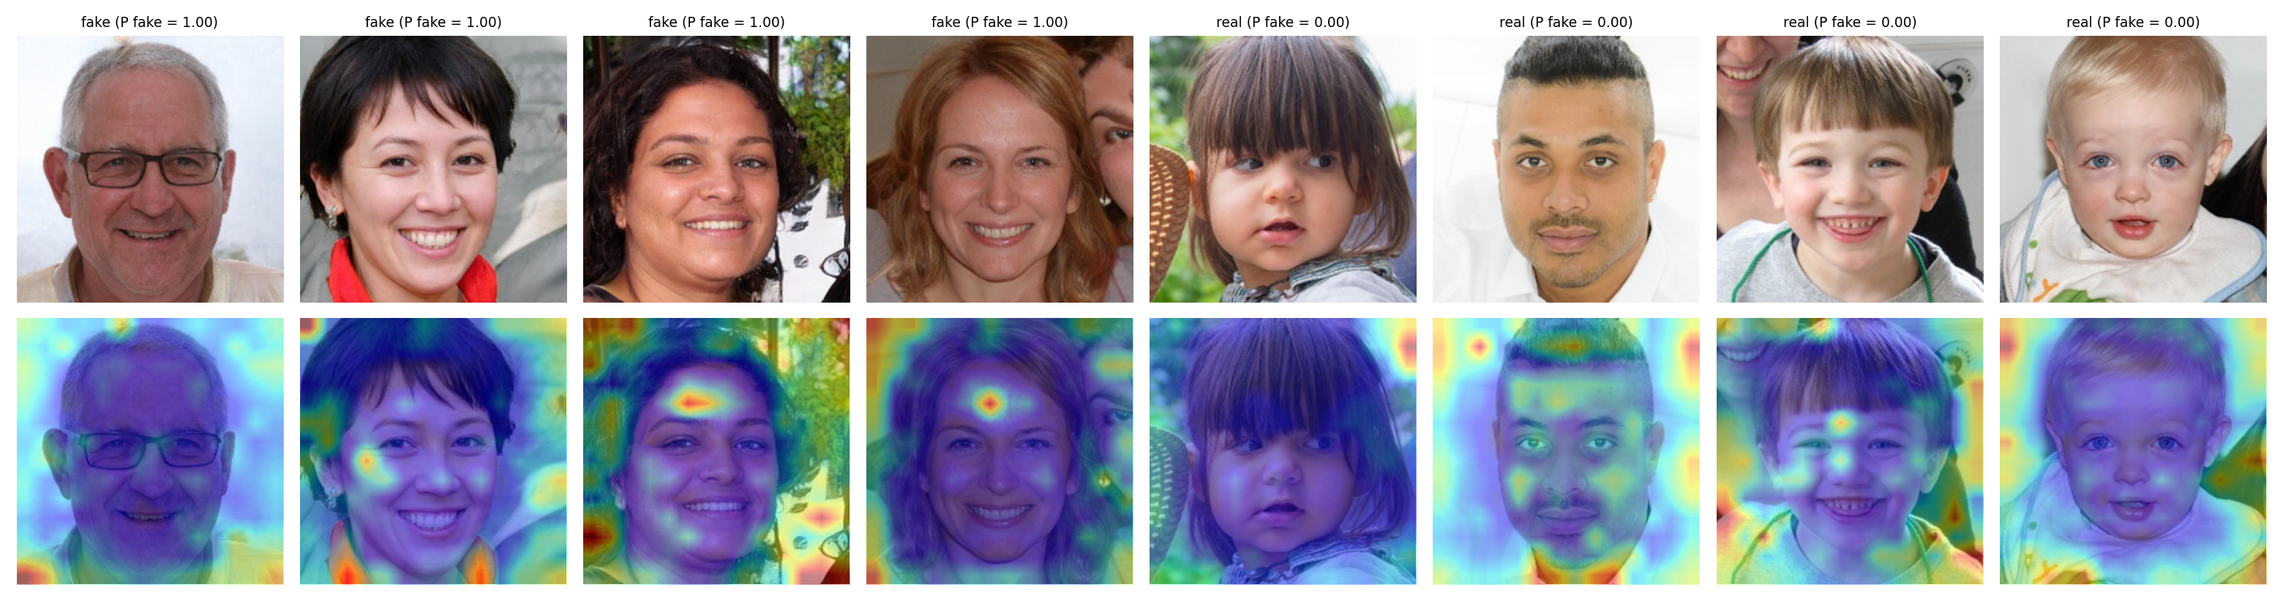
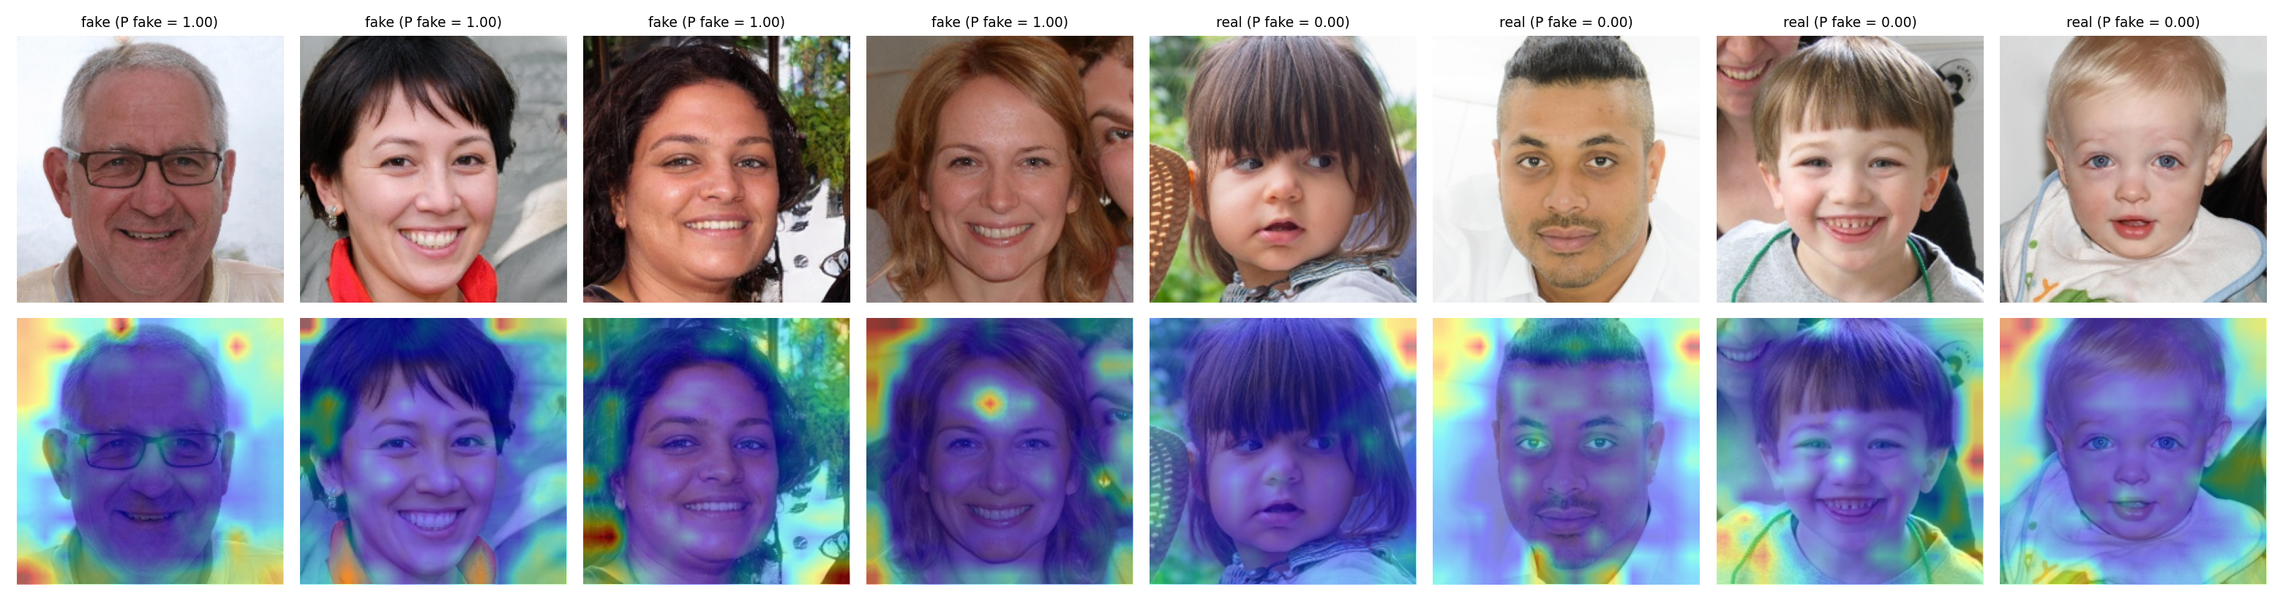
docs: rapport mis a jour avec les resultats reels (ViT scale, calibration, stats)

diff --git a/docs/rapport/rapport_technique.tex b/docs/rapport/rapport_technique.tex
@@ -321,10 +321,10 @@ le jeu de test.
 
 \section{Résultats et analyse}
 
-Tous les chiffres proviennent d'une exécution unique de chaque modèle (graine 42), sur les sous-ensembles décrits
-en section~5.4. Les latences sont mesurées sur CPU, sur la machine du notebook Kaggle, avec une image à la fois.
+Sauf mention contraire, les chiffres proviennent de l'entraînement de graine 42 de chaque modèle, sur les sous-ensembles
+décrits en section~5.4 ; EfficientNet et le ViT ont en plus été entraînés avec les graines 1 et 2 (section~\ref{sec:stats}). Les latences sont mesurées sur CPU, sur la machine du notebook Kaggle, avec une image à la fois.
 
-\subsection{Comparaison des trois modèles}
+\subsection{Comparaison des modèles}
 
 \begin{table}[H]
 \centering\small
@@ -332,12 +332,13 @@ en section~5.4. Les latences sont mesurées sur CPU, sur la machine du notebook 
 \toprule
 \textbf{Modèle} & \textbf{Params (M)} & \textbf{Durée (s)} & \textbf{Acc. val} & \textbf{F1 val} & \textbf{AUC val} \\
 \midrule
-Baseline CNN & 0,39 & 927 & 0,840 & 0,842 & 0,919 \\
-EfficientNet-V2-S & 22,15 & 409 & 0,968 & 0,968 & 0,996 \\
-ViT-B/16 & 85,80 & 594 & \textbf{0,998} & \textbf{0,998} & \textbf{1,000} \\
+Baseline CNN & 0,39 & 675 & 0,840 & 0,842 & 0,919 \\
+EfficientNet-V2-S & 22,15 & 391 & 0,968 & 0,968 & 0,996 \\
+ViT-B/16 & 85,80 & 563 & \textbf{0,998} & \textbf{0,998} & \textbf{1,000} \\
+ViT-B/16 (\texttt{scale}) & 85,80 & 567 & \textbf{0,998} & \textbf{0,998} & \textbf{1,000} \\
 \bottomrule
 \end{tabular}
-\caption{Entraînement et validation (4\,000 images). Durée : temps d'entraînement complet (10 époques pour la baseline, 3 pour les deux autres).}
+\caption{Entraînement et validation (4\,000 images). Durée : temps d'entraînement complet (10 époques pour la baseline, 3 pour les autres), sur GPU T4.}
 \end{table}
 
 \begin{table}[H]
@@ -347,16 +348,17 @@ ViT-B/16 & 85,80 & 594 & \textbf{0,998} & \textbf{0,998} & \textbf{1,000} \\
 \textbf{Modèle} & \textbf{Acc. test} & \textbf{F1 test} & \textbf{AUC test} & \textbf{Erreurs / 4\,000} \\
 \midrule
 Baseline CNN & 0,836 & 0,837 & 0,921 & 656 \\
-EfficientNet-V2-S & 0,973 & 0,973 & 0,996 & 108 \\
-ViT-B/16 & \textbf{0,996} & \textbf{0,996} & \textbf{1,000} & \textbf{15} \\
+EfficientNet-V2-S & 0,971 & 0,971 & 0,996 & 115 \\
+ViT-B/16 & 0,997 & 0,997 & 1,000 & 11 \\
+ViT-B/16 (\texttt{scale}) & \textbf{0,999} & \textbf{0,999} & \textbf{1,000} & \textbf{6} \\
 \bottomrule
 \end{tabular}
-\caption{Évaluation sur le jeu de test (4\,000 images, classe positive : « fake »). Le ViT commet environ 7 fois moins d'erreurs qu'EfficientNet et 44 fois moins que la baseline.}
+\caption{Évaluation sur le jeu de test (4\,000 images, classe positive : « fake »). Le ViT commet environ 10 fois moins d'erreurs qu'EfficientNet et 60 fois moins que la baseline.}
 \end{table}
 
 L'incertitude de ces chiffres et la significativité des écarts sont mesurées en section~\ref{sec:stats}.
 
-\figureou[0.5]{confusion_matrix.png}{Matrice de confusion du ViT-B/16 sur le jeu de test : 7 vrais visages classés « fake » et 8 faux classés « real ».}{fig:cm}
+\figureou[0.5]{confusion_matrix.png}{Matrice de confusion du ViT-B/16 sur le jeu de test : 8 vrais visages classés « fake » et 3 faux classés « real ».}{fig:cm}
 \figureou[0.5]{roc_curve.png}{Courbe ROC du ViT-B/16 sur le jeu de test (AUC $=1{,}000$ à l'arrondi).}{fig:roc}
 
 \subsection{Courbes d'apprentissage}
@@ -383,8 +385,9 @@ que les images où un seul des deux modèles se trompe.
 \textbf{Modèle} & \textbf{Exactitude} & \textbf{F1 (classe fake)} & \textbf{AUC} \\
 \midrule
 Baseline CNN & 0,539 & 0,131 & 0,542 \\
-EfficientNet-V2-S & 0,524 & 0,040 & 0,479 \\
-ViT-B/16 & 0,529 & 0,006 & 0,487 \\
+EfficientNet-V2-S & 0,525 & 0,042 & 0,483 \\
+ViT-B/16 & 0,529 & 0,000 & 0,500 \\
+ViT-B/16 (\texttt{scale}) & 0,530 & 0,006 & 0,488 \\
 \midrule
 Répondre toujours « réel » & 0,530 & 0 & 0,500 \\
 \bottomrule
@@ -392,9 +395,10 @@ Répondre toujours « réel » & 0,530 & 0 & 0,500 \\
 \caption{Test de généralisation sur \emph{Real and Fake Face Detection} (1\,081 visages réels, 960 visages retouchés).}
 \end{table}
 
-Sur ce jeu, les trois modèles ne font pas mieux qu'un classifieur qui répondrait toujours « réel » (53,0\,\% de visages
-réels) : leur AUC est proche de $0{,}5$ et le F1 du ViT sur la classe « fake » est de 0,006, il ne prédit presque jamais
-« fake ». La chute est donc complète, et non une simple baisse de performance.
+Sur ce jeu, aucun modèle ne fait mieux qu'un classifieur qui répondrait toujours « réel » (53,0\,\% de visages
+réels) : leur AUC est proche de $0{,}5$ et le F1 du ViT sur la classe « fake » est nul, il ne prédit jamais « fake ».
+L'augmentation \texttt{scale} n'y change rien : rendre le modèle robuste au cadrage ne lui apprend pas à reconnaître des
+retouches. La chute est donc complète, et non une simple baisse de performance.
 
 \subsection{Explicabilité}
 
@@ -423,13 +427,13 @@ regardé, pas pourquoi il décide.
 \midrule
 Baseline CNN & 20,3 & 14,5 & 61,1 & 1,56 / 0,40 & 0,0002 \\
 EfficientNet-V2-S & 99,9 & 44,0 & 369,5 & 88,4 / 22,9 & 0,0001 \\
-ViT-B/16 & 235,9 & 203,9 & \textbf{151,4} & 343,3 / \textbf{86,9} & 0,0329 \\
+ViT-B/16 & 229,0 & 193,3 & \textbf{142,5} & 343,3 / \textbf{86,9} & 0,059 \\
 \bottomrule
 \end{tabular}
-\caption{Latences médianes p50 en ms (CPU, une image) pour PyTorch, ONNX Runtime (FP32) et INT8 ; taille ONNX FP32 / INT8 ; écart maximal de probabilité entre INT8 et FP32 sur des entrées aléatoires (source : \fichier{metrics/export.json}). L'écart entre PyTorch et ONNX Runtime est inférieur à $2\cdot10^{-5}$ pour les trois modèles.}
+\caption{Latences médianes p50 en ms (CPU, une image) pour PyTorch, ONNX Runtime (FP32) et INT8 ; taille ONNX FP32 / INT8 ; écart maximal de probabilité entre INT8 et FP32 sur des entrées aléatoires (source : \fichier{metrics/export.json}). L'écart entre PyTorch et ONNX Runtime est inférieur à $2\cdot10^{-5}$ pour les trois modèles. Lignes baseline et EfficientNet : mesures du premier entraînement.}
 \end{table}
 
-L'export ONNX réduit la latence de 1,4 fois (baseline), 2,3 fois (EfficientNet) et 1,16 fois (ViT). La quantification INT8
+L'export ONNX réduit la latence de 1,4 fois (baseline), 2,3 fois (EfficientNet) et 1,18 fois (ViT). La quantification INT8
 dynamique n'est utile que pour le ViT : le modèle est 4 fois plus petit (343 $\to$ 87~Mo) et 26\,\% plus rapide que le
 FP32 ; pour les deux CNN, elle est \emph{plus lente} (4 fois pour la baseline, 8 fois pour EfficientNet), car la
 quantification dynamique cible surtout les produits matriciels. La version INT8 du ViT n'a pas été évaluée sur le jeu de
@@ -462,8 +466,10 @@ Recadrage central 80 / 60\,\% & \textbf{REAL} / \textbf{REAL} & 0,2 / 0,0\,\% \\
 
 Le modèle résiste à la compression, au flou et au bruit, mais bascule sur « réel » à 32 pixels et après un simple
 recadrage central, alors que le visage reste détecté : il dépend du cadrage et de l'échelle du visage, qui sont fixes
-dans les données d'entraînement. Ces sorties sont presque toujours proches de 0 ou de 100\,\% : les probabilités ne sont
-pas calibrées.
+dans les données d'entraînement. Ces sorties restent proches de 0 ou de 100\,\% même quand le modèle se trompe : sur des
+images éloignées de la distribution d'entraînement, sa confiance n'est pas fiable (la calibration, mesurée en
+section~\ref{sec:calib}, n'est valable qu'en distribution). Ce test a été fait via l'application, avec le ViT du premier
+entraînement.
 
 \subsection{Robustesse quantitative et augmentation \texttt{scale}}
 Pour dépasser l'exemple unique ci-dessus, les mêmes familles de dégradations sont appliquées à 1\,000 images du test
@@ -494,9 +500,11 @@ désormais « Résultat non fiable » dans ce cas.
 \subsection{Analyse critique}
 
 \begin{enumerate}
-  \item \textbf{Quel modèle gagne ?} Le ViT-B/16 : 99,62\,\% d'exactitude sur le test (15 erreurs sur 4\,000), contre 97,3\,\%
-        pour EfficientNet (108 erreurs) et 83,6\,\% pour la baseline (656 erreurs). La section~\ref{sec:stats} indique si
-        cet écart reste significatif une fois l'incertitude du test prise en compte (intervalles bootstrap, McNemar).
+  \item \textbf{Quel modèle gagne ?} Les deux ViT : 99,72\,\% d'exactitude sur le test pour le ViT (11 erreurs sur 4\,000) et
+        99,85\,\% pour le ViT \texttt{scale} (6 erreurs), contre 97,1\,\% pour EfficientNet (115 erreurs) et 83,6\,\% pour la
+        baseline (656 erreurs). L'avantage des ViT sur les CNN est significatif (McNemar, $p<10^{-4}$) et stable d'une
+        graine à l'autre (ViT : 99,6 $\pm$ 0,1\,\% ; EfficientNet : 97,3 $\pm$ 0,1\,\%). En revanche, les deux ViT ne se
+        distinguent pas statistiquement sur le test ($p=0{,}23$) : c'est la robustesse qui les départage (point 6).
   \item \textbf{Pourquoi le ViT fait-il mieux ?} Deux facteurs se combinent. (a) Le pré-entraînement : la baseline, apprise
         \emph{from scratch} avec 0,39~M de paramètres, plafonne à 83,6\,\% ; les deux modèles pré-entraînés sur ImageNet
         dépassent 97\,\%. (b) L'auto-attention globale : dès la première couche, certaines têtes du ViT relient des patchs
@@ -505,30 +513,42 @@ désormais « Résultat non fiable » dans ce cas.
         texture des cheveux. Ce lien reste une hypothèse : il faudrait une ablation (ViT sans pré-entraînement, ou CNN de
         même taille) pour séparer les deux effets.
   \item \textbf{Son coût est-il justifié ?} Il a 4 fois plus de paramètres qu'EfficientNet (85,8~M contre 22,2~M) et une
-        latence ONNX 4,6 fois plus élevée (204~ms contre 44~ms), pour environ 7 fois moins d'erreurs. Son temps
-        d'entraînement est comparable (594~s contre 409~s). Pour un usage où 0,2 à 2~s par image sont acceptables, le gain
+        latence ONNX 4,4 fois plus élevée (193~ms contre 44~ms), pour environ 10 fois moins d'erreurs. Son temps
+        d'entraînement est comparable (563~s contre 391~s). Pour un usage où 0,2 à 2~s par image sont acceptables, le gain
         justifie le coût ; pour un usage en temps réel, EfficientNet est un compromis plus économique. La quantification
-        INT8 réduit le ViT à 87~Mo et le rend 26\,\% plus rapide, mais elle doit encore être validée sur le jeu de test.
+        INT8 réduit le ViT à 87~Mo et le rend 26\,\% plus rapide (143~ms), mais elle modifie la probabilité jusqu'à 0,06 sur
+        des entrées aléatoires : elle doit être validée sur le jeu de test avant d'être déployée.
   \item \textbf{Que montrent les cartes ?} Le ViT regarde surtout le haut du front, les bords et l'arrière-plan, plus que
         les yeux et la bouche. Sur 8 images, c'est une observation et non une preuve, mais elle est cohérente avec le point
         suivant : le modèle exploite aussi des indices qui ne sont pas propres au visage.
   \item \textbf{Apprentissage par raccourci (\emph{shortcut learning}).} Les deux classes du jeu d'entraînement ont un cadrage
         identique et très normalisé (visages FFHQ alignés, yeux à position fixe). Un simple recadrage central de 80\,\% fait
-        passer une image générée de 99,9\,\% à 0,2\,\% de probabilité « fake » : le modèle a appris en partie la combinaison
-        « cadrage FFHQ + texture StyleGAN », pas seulement la texture. La section~\ref{sec:robustesse} mesure cette
-        dépendance sur 1\,000 images et l'effet de l'augmentation \texttt{scale}, qui vise précisément à casser ce raccourci.
+        passer une image générée de 99,9\,\% à 0,2\,\% de probabilité « fake ». Sur 1\,000 images, un recadrage de 60\,\% fait
+        chuter le ViT de 99,8\,\% à 61,8\,\% d'exactitude, et il ne détecte plus que 24\,\% des faux : le modèle a appris en
+        partie la combinaison « cadrage FFHQ + texture StyleGAN », pas seulement la texture.
+  \item \textbf{L'augmentation \texttt{scale} corrige-t-elle ce raccourci ?} Oui, en grande partie. Avec des recadrages
+        aléatoires à l'entraînement, l'exactitude moyenne sur les quatre dégradations de cadrage passe de 83,3\,\% à
+        98,0\,\% (recadrage 60\,\% : 61,8 $\to$ 98,1\,\%), sans perte sur le test (99,85\,\%). En contrepartie, le ViT
+        \texttt{scale} résiste moins bien à la compression JPEG (qualité 20 : 94,6 $\to$ 86,8\,\%) et un peu moins au flou
+        (97,9 $\to$ 95,0\,\%). Notre hypothèse : privé de l'indice de cadrage, il s'appuie davantage sur les détails fins
+        (hautes fréquences) laissés par StyleGAN, précisément ce que la compression et le flou effacent. Il s'agit donc
+        d'un compromis, pas d'un gain gratuit ; comme une photo réelle est rarement cadrée comme FFHQ, nous retenons le
+        ViT \texttt{scale} comme modèle recommandé pour le déploiement, en combinant à l'avenir les deux augmentations
+        (recadrage et compression JPEG).
   \item \textbf{Pourquoi la performance s'effondre-t-elle sur le second jeu ?} Les « faux » de ce jeu sont des photos
         réelles retouchées, alors que les modèles ont appris sur des visages entièrement générés par StyleGAN. Notre
         hypothèse est qu'ils ont appris les traces propres à StyleGAN (et non une notion générale de falsification), et
         que la résolution ($600\times600$ contre $256\times256$), la chaîne de compression et le cadrage différents de ce
-        jeu déplacent aussi la distribution des images. Une exactitude de 99,6\,\% en distribution ne dit donc rien de la
+        jeu déplacent aussi la distribution des images. Une exactitude de 99,7\,\% en distribution ne dit donc rien de la
         performance sur d'autres générateurs : c'est la limite principale du projet.
-  \item \textbf{Les probabilités sont-elles fiables ?} Les sorties sont presque toujours proches de 0 ou de 1. Le
-        temperature scaling (section~\ref{sec:calib}) corrige la confiance affichée sans changer les décisions ; la température
-        apprise devrait être intégrée à l'API.
-  \item \textbf{Quels cas d'erreur ?} Sur le test, 7 vrais visages sont classés « fake » et 8 faux sont classés « real ».
-        Les prédictions image par image (\fichier{reports/runs/vit\_s42/preds\_test.csv}) permettent d'examiner ces 15
-        images une à une, ce qui est une piste d'analyse.
+  \item \textbf{Les probabilités sont-elles fiables ?} En distribution, oui : le ViT est le modèle le mieux calibré
+        (ECE de 0,23\,\%), et le temperature scaling ne l'améliore presque pas ($T=0{,}78$, il est même légèrement trop
+        prudent). C'est EfficientNet qui est trop sûr de lui ($T=1{,}22$). Mais une bonne calibration en distribution ne
+        garantit rien hors distribution : sur une image recadrée, le ViT se trompe avec plus de 99\,\% de confiance. La
+        probabilité affichée dans l'interface ne doit donc pas être lue comme une garantie.
+  \item \textbf{Quels cas d'erreur ?} Sur le test, le ViT classe 8 vrais visages « fake » et 3 faux « real » (ViT
+        \texttt{scale} : 4 et 2). Les prédictions image par image (\fichier{reports/runs/vit\_s42/preds\_test.csv}) permettent
+        d'examiner ces images une à une, ce qui est une piste d'analyse.
   \item \textbf{Rigueur du protocole.} Le découpage est fourni par le jeu de données, les augmentations ne touchent que
         l'entraînement, le checkpoint est choisi sur la validation et le test n'est utilisé qu'une fois. Les limites
         restantes : 20\,\% des données d'entraînement utilisées, 3 époques, pas de recherche d'hyperparamètres
@@ -746,7 +766,7 @@ Prometheus et Grafana se lancent avec le profil \texttt{monitoring}. Un test de 
 
 \nomprojet{} livre une chaîne complète : données versionnées, trois architectures comparées, explicabilité exportée avec
 le modèle, API typée et testée, interface interactive, images Docker multi-étapes, intégration continue et suivi des
-expériences avec registre. Le ViT-B/16 est le meilleur modèle (99,62\,\% d'exactitude sur le test, 15 erreurs sur 4\,000), mais il ne généralise pas au second jeu de données (53\,\%, AUC 0,49) : il détecte les visages générés par StyleGAN, pas les retouches ni les images d'autres générateurs.
+expériences avec registre. Le ViT-B/16 est le meilleur modèle (99,72\,\% d'exactitude sur le test, 11 erreurs sur 4\,000, résultat stable sur trois graines), significativement devant EfficientNet et la baseline. Sa variante entraînée avec des recadrages aléatoires (\texttt{scale}) est aussi précise (99,85\,\%) et beaucoup plus robuste au cadrage (98,0\,\% contre 83,3\,\%), au prix d'une moindre robustesse à la compression JPEG. Aucun modèle ne généralise au second jeu de données (53\,\%, AUC proche de 0,5) : ils détectent les visages générés par StyleGAN, pas les retouches ni les images d'autres générateurs.
 
 Perspectives : entraîner sur des images issues de modèles de diffusion récents ; mesurer la généralisation sur des visages générés par diffusion ; intégrer à l'API la température de calibration mesurée en section~\ref{sec:calib} ; poursuivre la réduction de la dépendance au cadrage amorcée par l'augmentation \texttt{scale} (section~\ref{sec:robustesse}), par exemple avec des recadrages plus agressifs ou un entraînement sur des visages non alignés ; séparer l'effet du pré-entraînement et de l'auto-attention par une ablation ; utiliser les 100\,000 images d'entraînement ; ajouter MixUp/CutMix et un
 rééquilibrage de classes, étendre la détection à la vidéo, détecter la dérive de données avec Evidently et déployer sur

diff --git a/src/analysis/calibration.py b/src/analysis/calibration.py
@@ -139,15 +139,28 @@ def write_latex(results):
         "validation). "
         "Plus c'est bas, mieux c'est. Les prédictions (et donc l'exactitude et l'AUC) sont inchangées.",
     )
-    over = [t for t, r in results.items() if r["temperature"] > 1]
+    over = [t for t, r in results.items() if r["temperature"] > 1.05]
+    under = [t for t, r in results.items() if r["temperature"] < 0.95]
     if over:
         body += (
             "Une température supérieure à 1 signifie que le modèle est \\emph{trop sûr de lui} : ses "
-            "probabilités "
-            "brutes sont trop proches de 0 ou de 1. C'est le cas de "
+            "probabilités brutes sont trop proches de 0 ou de 1. C'est le cas de "
             + ", ".join(latex.name(t) for t in over)
             + ". "
         )
+    if under:
+        body += (
+            "Une température inférieure à 1 signifie au contraire que le modèle est "
+            "\\emph{légèrement trop prudent} : c'est le cas de "
+            + ", ".join(latex.name(t) for t in under)
+            + ". "
+        )
+    best = min(results, key=lambda t: results[t]["before"]["ece"])
+    body += (
+        f"Le modèle le mieux calibré avant correction est {latex.name(best)} "
+        f"(ECE de {latex.pct(results[best]['before']['ece'], 2)}) : sur des images de la même distribution "
+        "que l'entraînement, ses probabilités sont déjà fiables. "
+    )
     body += (
         "La température ne modifie que les probabilités affichées : elle peut être ajoutée à "
         "\\texttt{models/metadata.json} et appliquée par l'API avant le softmax.\n"

diff --git a/README.md b/README.md
@@ -58,7 +58,7 @@ cd frontend && npm install && npm run dev                # interface sur :3000 (
 |---|---|---|
 | Axe 4 : stratégie de patchification et embeddings de position | ViT-B/16 : grille 14x14 = 196 patchs + token CLS, embeddings de position appris `(1, 197, 768)`, journalisés dans MLflow (`describe_vit`, `src/models/architecture.py`) | Fait |
 | Axe 4 : matrices d'attention (Attention Rollout) affichées dans le frontend | `src/utils/gradcam.py`, exportées DANS l'ONNX (`ViTWithRollout`, sortie `cam`), calque affiché avec curseur de comparaison | Fait (test CI sur ViT tiny) |
-| Benchmark contre une baseline CNN | `notebooks/kaggle_train.ipynb` : baseline CNN, EfficientNet-V2-S, ViT-B/16 | Fait : test 83,6 % / 97,3 % / **99,6 %** (voir « Résultats ») |
+| Benchmark contre une baseline CNN | `notebooks/kaggle_train.ipynb` : baseline CNN, EfficientNet-V2-S, ViT-B/16 | Fait : test 83,6 % / 97,1 % / **99,7 %** (ViT `scale` : 99,85 %) (voir « Résultats ») |
 | Métriques, généralisation | accuracy, F1, ROC-AUC, matrice de confusion, 2e dataset (`src/models/evaluate.py`) | Fait : la généralisation échoue (53 %), limite documentée |
 | Export ONNX + ONNX Runtime, quantification | `src/models/export_onnx.py` : parité PyTorch/ONNX, latence, INT8 (`src/utils/quantize.py`) | Fait (INT8 testé sur le modèle de démo) |
 | FastAPI : `/health` (GPU, version), `/model/metadata`, `/predict`, `/predict/visualize`, Pydantic, 400 / 503 | `backend/app/` | Fait (12 tests) |
@@ -178,16 +178,21 @@ Pour tester vite, dans `params.yaml` : `train_limit: 200`, `val_limit: 100`, `te
 
 ## Résultats
 
-Un seul entraînement par modèle (graine 42), sur 20 000 images d'entraînement, 4 000 de validation et 4 000 de test
+Entraînement de graine 42 (EfficientNet et ViT : aussi graines 1 et 2), sur 20 000 images d'entraînement, 4 000 de validation et 4 000 de test
 (sur 100 000 / 20 000 / 20 000 disponibles). Sources : `metrics/*.json`, MLflow, `reports/`. Détails et analyse : rapport.
 
 | Modèle | Accuracy (val) | F1 (val) | ROC-AUC (val) | Accuracy (test) | Généralisation (2e dataset) | Latence ONNX p50 | INT8 (taille, écart de proba) |
 |---|---|---|---|---|---|---|---|
 | Baseline CNN | 0,840 | 0,842 | 0,919 | 0,836 | 0,539 | 14,5 ms | 0,40 Mo, 0,0002 (plus lent) |
-| EfficientNet-V2-S | 0,968 | 0,968 | 0,996 | 0,973 | 0,524 | 44,0 ms | 22,9 Mo, 0,0001 (plus lent) |
-| **ViT-B/16** | **0,998** | **0,998** | **1,000** | **0,996** | 0,529 | 203,9 ms | 86,9 Mo (au lieu de 343), 0,033, 26 % plus rapide |
+| EfficientNet-V2-S | 0,968 | 0,968 | 0,996 | 0,971 | 0,525 | 44,0 ms | 22,9 Mo, 0,0001 (plus lent) |
+| ViT-B/16 | **0,998** | **0,998** | **1,000** | 0,997 | 0,529 | 193,3 ms | 86,9 Mo (au lieu de 343), 0,059, 26 % plus rapide |
+| **ViT-B/16 `scale`** | **0,998** | **0,998** | **1,000** | **0,999** | 0,530 | idem | idem |
 
-Le ViT commet 15 erreurs sur 4 000 images de test (EfficientNet : 108, baseline : 656). Sur le second jeu de données
+Erreurs sur 4 000 images de test : ViT `scale` 6, ViT 11, EfficientNet 115, baseline 656. Les ViT battent les CNN de façon
+significative (McNemar, p < 10⁻⁴) et stable sur trois graines (ViT : 99,6 ± 0,1 %). Les deux ViT sont équivalents sur le test
+(p = 0,23), mais le ViT `scale` (recadrages aléatoires à l'entraînement) résiste bien mieux au cadrage : 98,0 % contre 83,3 %
+en moyenne sur quatre recadrages, 1 000 images (au prix d'une moindre robustesse à la compression JPEG). C'est le modèle
+recommandé. Sur le second jeu de données
 (photos réelles retouchées), les trois modèles ne font pas mieux que répondre toujours « réel » (53,0 %, AUC proche de 0,5) :
 ils détectent les visages générés par StyleGAN, pas les retouches ni les images d'autres générateurs.
 
@@ -243,8 +248,8 @@ explosion de « FAKE » ou d'images sans visage).
 ## Limites et éthique
 
 - Entraîné sur des visages FFHQ (réels) et StyleGAN (générés) : les images de modèles de diffusion récents ne sont pas couvertes.
-- Entraînement sur 20 000 des 100 000 images disponibles, une seule exécution par modèle (pas de mesure de variabilité entre graines).
-- Aucune généralisation aux retouches ni aux images de modèles de diffusion (second jeu : 53 %, AUC 0,49) ; le modèle dépend du cadrage et du visage entier ; ses probabilités ne sont pas calibrées.
+- Entraînement sur 20 000 des 100 000 images disponibles, 3 époques, sans recherche d'hyperparamètres.
+- Aucune généralisation aux retouches ni aux images de modèles de diffusion (second jeu : 53 %, AUC 0,49) ; le ViT d'origine dépend du cadrage (corrigé en grande partie par la variante `scale`) ; ses probabilités sont bien calibrées en distribution, pas sur des images très différentes.
 - Une photo de webcam diffère des images d'entraînement (éclairage, compression, cadrage) : la précision réelle peut être inférieure.
 - Les cartes d'attention indiquent où le modèle a regardé, pas une preuve de falsification.
 - Un modèle peut se tromper : ne pas utiliser un verdict seul comme preuve.
